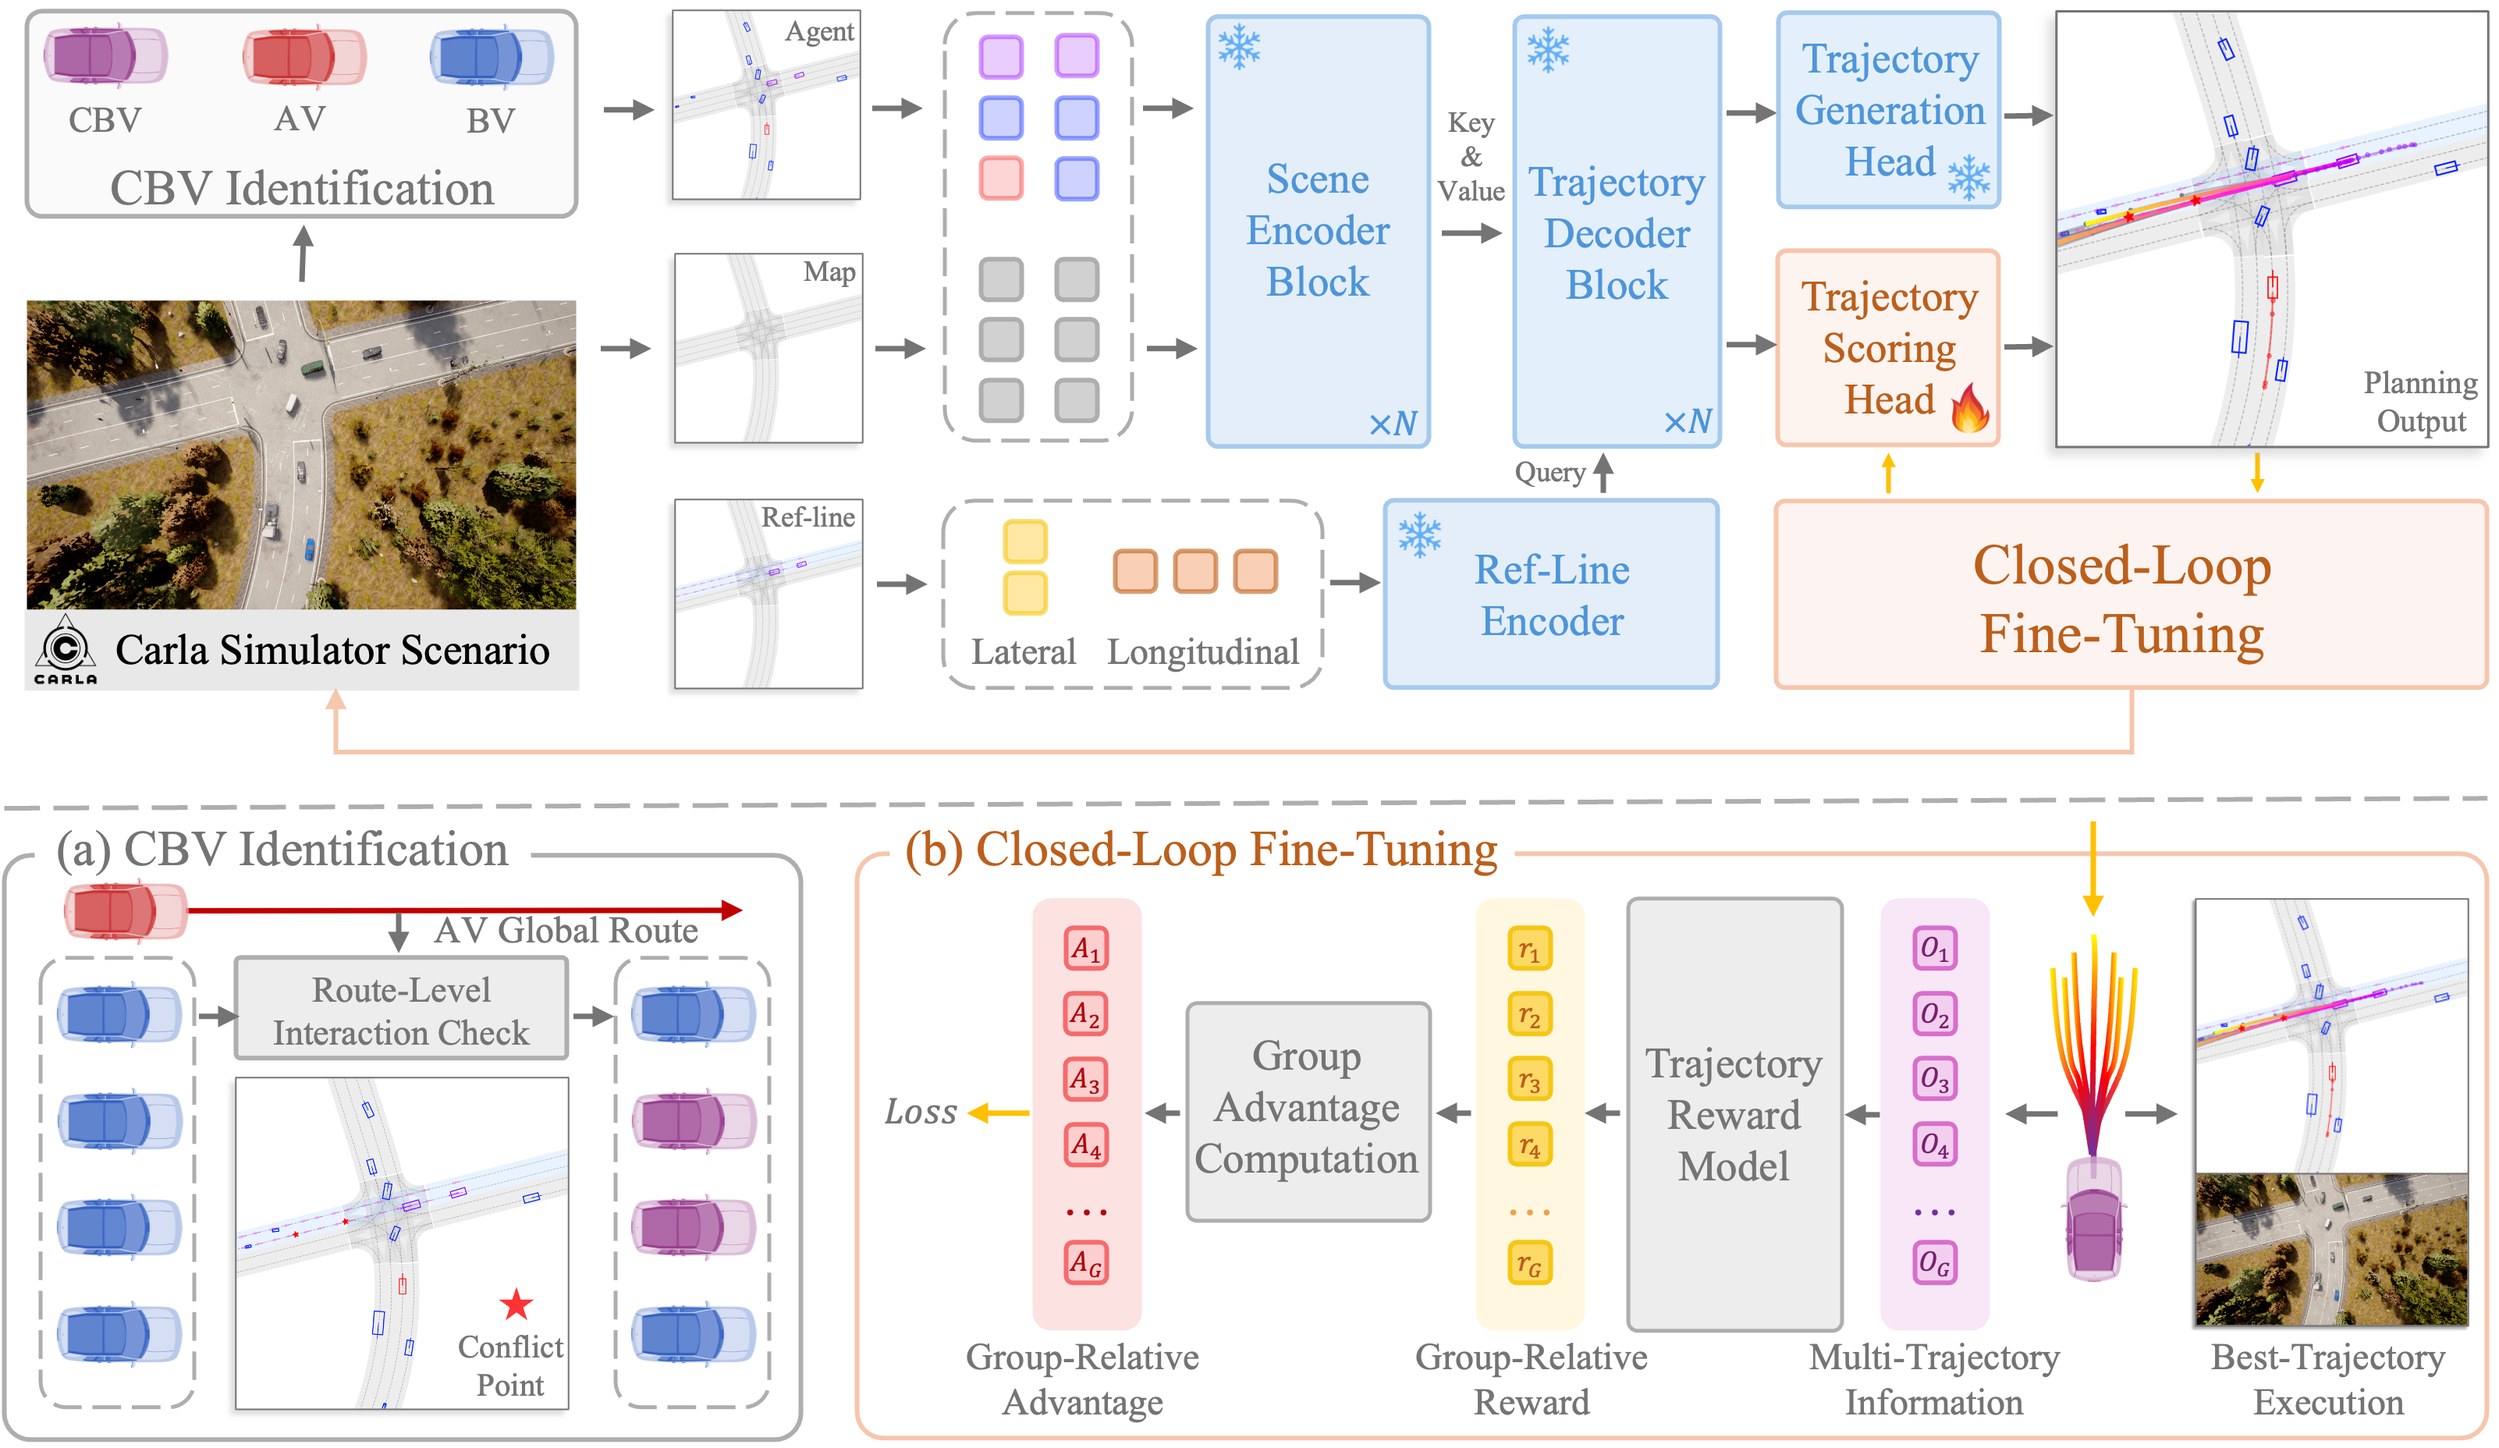
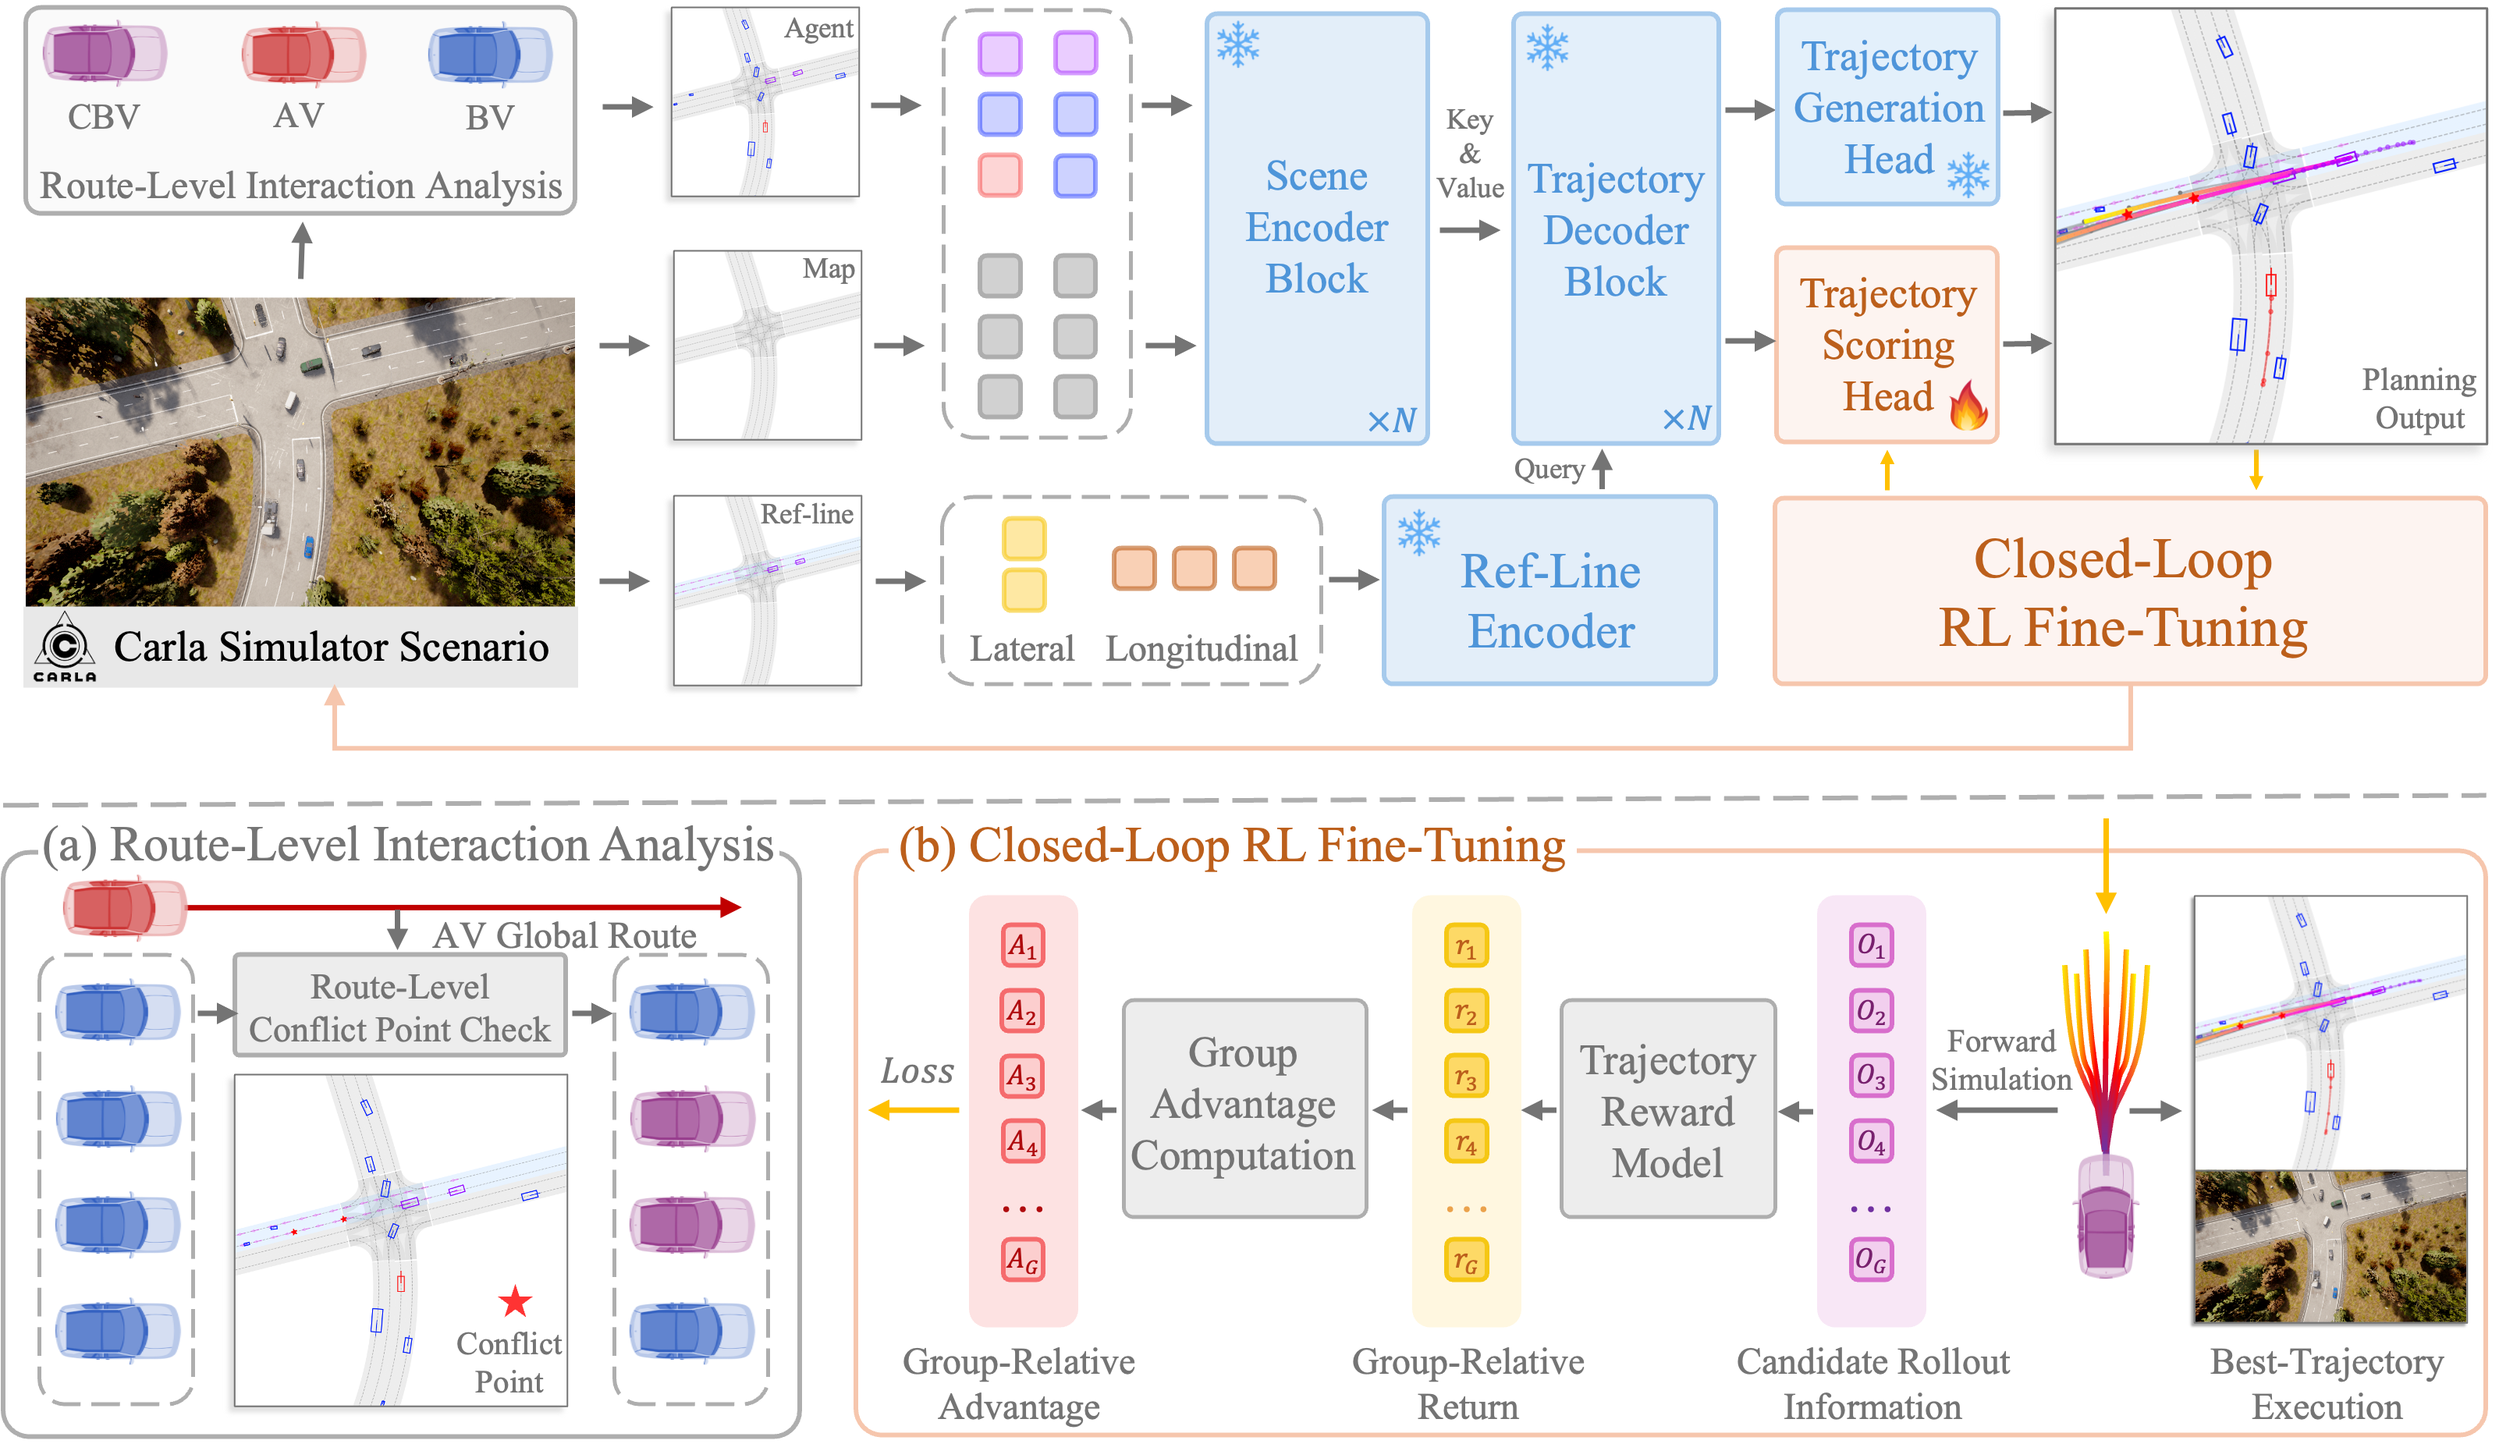
update RIFT

diff --git a/RIFT/index.html b/RIFT/index.html
@@ -214,7 +214,7 @@
         </div>
   <!--       <h2 class="subtitle">
             <p>
-              <br>we introduce a dual-stage AV-centered simulation framework that conducts open-loop imitation learning pre-training in a data-driven simulator to capture trajectory-level realism and multimodality, followed by closed-loop reinforcement learning fine-tuning in a physics-based simulator to enhance controllability and mitigate covariate shift.
+              <br>we introduce a dual-stage AV-centric simulation framework that conducts open-loop imitation learning pre-training in a data-driven simulator to capture trajectory-level realism and multimodality, followed by closed-loop reinforcement learning fine-tuning in a physics-based simulator to enhance controllability and mitigate covariate shift.
             </p>
         </h2> -->
       </div>
@@ -228,7 +228,7 @@
       <div class="hero-body">
         <h2 class="subtitle">
           <!-- Given a scene, our approach (VRB) learns  <strong> actionable representations </strong> for robot learning. VRB predicts contact points and a post-contact trajectory learned from <strong> human videos </strong>.  -->
-          we introduce a <strong>dual-stage AV-centered simulation framework</strong> that conducts <strong>open-loop imitation learning pre-training</strong> in a data-driven simulator to capture trajectory-level realism and multimodality, followed by <strong>closed-loop reinforcement learning fine-tuning</strong> in a physics-based simulator to enhance controllability and mitigate covariate shift.
+          we introduce a <strong>dual-stage AV-centric simulation framework</strong> that conducts <strong>open-loop imitation learning pre-training</strong> in a data-driven simulator to capture trajectory-level realism and multimodality, followed by <strong>closed-loop reinforcement learning fine-tuning</strong> in a physics-based simulator to enhance controllability and mitigate covariate shift.
         </h2>
         <div align="center">
           <img src="static/images/intro.png" alt="Image description" style="max-width:100%; height:auto; image-rendering: -webkit-optimize-contrast;">
@@ -255,7 +255,7 @@
       <div class="columns is-centered has-text-centered">
         <div class="column is-two-thirds ">
           <div class="content has-text-justified">
-            Achieving both realism and controllability in interactive closed-loop traffic simulation remains a key challenge in autonomous driving. Data-driven simulation methods reproduce realistic trajectories but suffer from <em>covariate shift</em> in closed-loop deployment, compounded by simplified dynamics models that further reduce reliability. Conversely, physics-based simulation methods enhance reliable and controllable closed-loop interactions but often lack expert demonstrations, compromising realism. To address these challenges, we introduce a dual-stage AV-centered simulation framework that conducts open-loop imitation learning pre-training in a data-driven simulator to capture trajectory-level realism and multimodality, followed by closed-loop reinforcement learning fine-tuning in a physics-based simulator to enhance controllability and mitigate covariate shift. In the fine-tuning stage, we propose <em><strong>RIFT</strong></em>, a simple yet effective closed-loop RL fine-tuning strategy that preserves the trajectory-level multimodality through a GRPO-style group-relative advantage formulation, while enhancing controllability and training stability by replacing KL regularization with the dual-clip mechanism. Extensive experiments demonstrate that <em><strong>RIFT</strong></em> significantly improves the realism and controllability of generated traffic scenarios, providing a robust platform for evaluating autonomous vehicle performance in diverse and interactive scenarios.
+            Achieving both realism and controllability in closed-loop traffic simulation remains a key challenge in autonomous driving. Dataset-based methods reproduce realistic trajectories but suffer from <em>covariate shift</em> in closed-loop deployment, compounded by simplified dynamics models that further reduce reliability. Conversely, physics-based simulation methods enhance reliable and controllable closed-loop interactions but often lack expert demonstrations, compromising realism. To address these challenges, we introduce a dual-stage AV-centric simulation framework that conducts open-loop imitation learning pre-training in a data-driven simulator to capture trajectory-level realism and route-level controllability, followed by closed-loop reinforcement learning fine-tuning in a physics-based simulator to enhance style-level controllability and mitigate covariate shift. In the fine-tuning stage, we propose <em><strong>RIFT</strong></em>, a novel RL fine-tuning strategy that evaluates all candidate modalities through group-relative optimization with a dual-clip surrogate objective, enhancing style-level controllability and mitigating covariate shift, while preserving the trajectory-level realism and route-level controllability inherited from IL pre-training. Extensive experiments demonstrate that <em><strong>RIFT</strong></em> improves realism and controllability in traffic simulation while simultaneously exposing the limitations of modern AV systems in closed-loop evaluation.
           </div>
         </div>
         </div>
@@ -288,7 +288,7 @@
                   <div class="column">
                   <div class="content has-text-justified interpolation-panel">
                       <p style="text-align: justify;font-size: 18px"> 
-                        <strong>Overview of the <em>RIFT</em>:</strong> The upper section illustrates the overall architecture of <em><strong>RIFT</strong></em>. To enhance controllability, only the trajectory scoring head is fine-tuned, with the rest of the pre-trained network kept frozen to preserve trajectory-level realism. (a) The CBV identification mechanism introduces route-level interactions between the AV and CBVs. (b) Closed-loop fine-tuning improves user-aligned controllability and mitigates covariate shift.</p>
+                        <strong>Overview of the <em>RIFT</em>:</strong> Building on the IL pre-trained model, <em>RIFT</em> first performs route-level interaction analysis to identify critical background vehicles and their associated reference lines, enabling the generation of realistic and multimodal trajectories. To isolate style-level controllability from the trajectory-level realism and route-level controllability established during pre-training, only the scoring head is fine-tuned via <em>RIFT</em>, with the remaining components kept frozen. Specifically, <em>RIFT</em> computes group-relative advantages over all candidate rollouts, promoting alignment with user-preferred styles and mitigating covariate shift through closed-loop RL fine-tuning.</p>
                   </div>
                 </div>
               </div>
@@ -320,7 +320,7 @@
               <div class="columns is-centered">
                 <div class="column is-full-width" style="text-align: justify;">
                   <p>
-                    The AV-centered traffic simulation environment consists of the autonomoud vehicle<span style="color: #FF0000; opacity: 0.6;">(AV, implemented as PDM-Lite)</span>, Critical Background Vehicles <span style="color: #9500ff; opacity: 0.6;">(CBVs)</span>, and background vehicles <span style="color: #001eff; opacity: 0.6;">(BVs)</span>, where the <span style="color: #FF0000; opacity: 0.6;">AV</span> follows a predefined global route and the <span style="color: #9500ff; opacity: 0.6;">CBVs</span> may interact with it at route level.
+                    The AV-centric traffic simulation consists of the autonomoud vehicle<span style="color: #FF0000; opacity: 0.6;">(AV, implemented as PDM-Lite)</span>, Critical Background Vehicles <span style="color: #9500ff; opacity: 0.6;">(CBVs)</span>, and background vehicles <span style="color: #001eff; opacity: 0.6;">(BVs)</span>, where the <span style="color: #FF0000; opacity: 0.6;">AV</span> follows a predefined global route and the <span style="color: #9500ff; opacity: 0.6;">CBVs</span> may interact with it at route level.
                   </p>
                 </div>
               </div>
@@ -608,7 +608,7 @@
               <img src="static/images/main_result.png" alt="Image description" width="100%">
             </div>
             <p>
-              <em><strong>RIFT</strong></em> consistently outperforms all baselines in both aspects across most settings. While supervised learning methods achieve slightly lower infraction rates, this improvement is primarily due to their inherently conservative behavior, derived from the expert PDM-Lite, which prioritizes safety by avoiding risky maneuvers.
+              <em><strong>RIFT</strong></em> consistently outperforms all baselines in both aspects across most settings. While supervised learning methods achieve slightly lower CPK and ORR, this improvement is primarily due to their inherently conservative behavior, derived from the expert PDM-Lite, which prioritizes safety by avoiding risky maneuvers.
             </p>
             <h2 class="subtitle is-3" style="text-align: center;">
               <img id="painting_icon" width="5%" src="static/images/table.png">
@@ -618,7 +618,7 @@
               <img src="static/images/eval_result.png" alt="Image description" width="100%">
             </div>
             <p>
-              under the <em><strong>RIFT</strong></em>-generated scenarios, AVs achieve near-optimal Driving Score (DS), Route Completion (RC), and Infraction Score (IS), along with the lowest BR. These findings highlight <em><strong>RIFT</strong></em>’s effectiveness in minimizing blocking while maintaining realism and interactivity, underscoring its superiority in closed-loop AV evaluation.
+              <em><strong>RIFT</strong></em> produces realistic and well-structured scenarios that are effective at exposing the limitations of modern AV systems.
             </p>
             <h2 class="subtitle is-3" style="text-align: center;">
               <img id="painting_icon" width="5%" src="static/images/driving-school.png">
